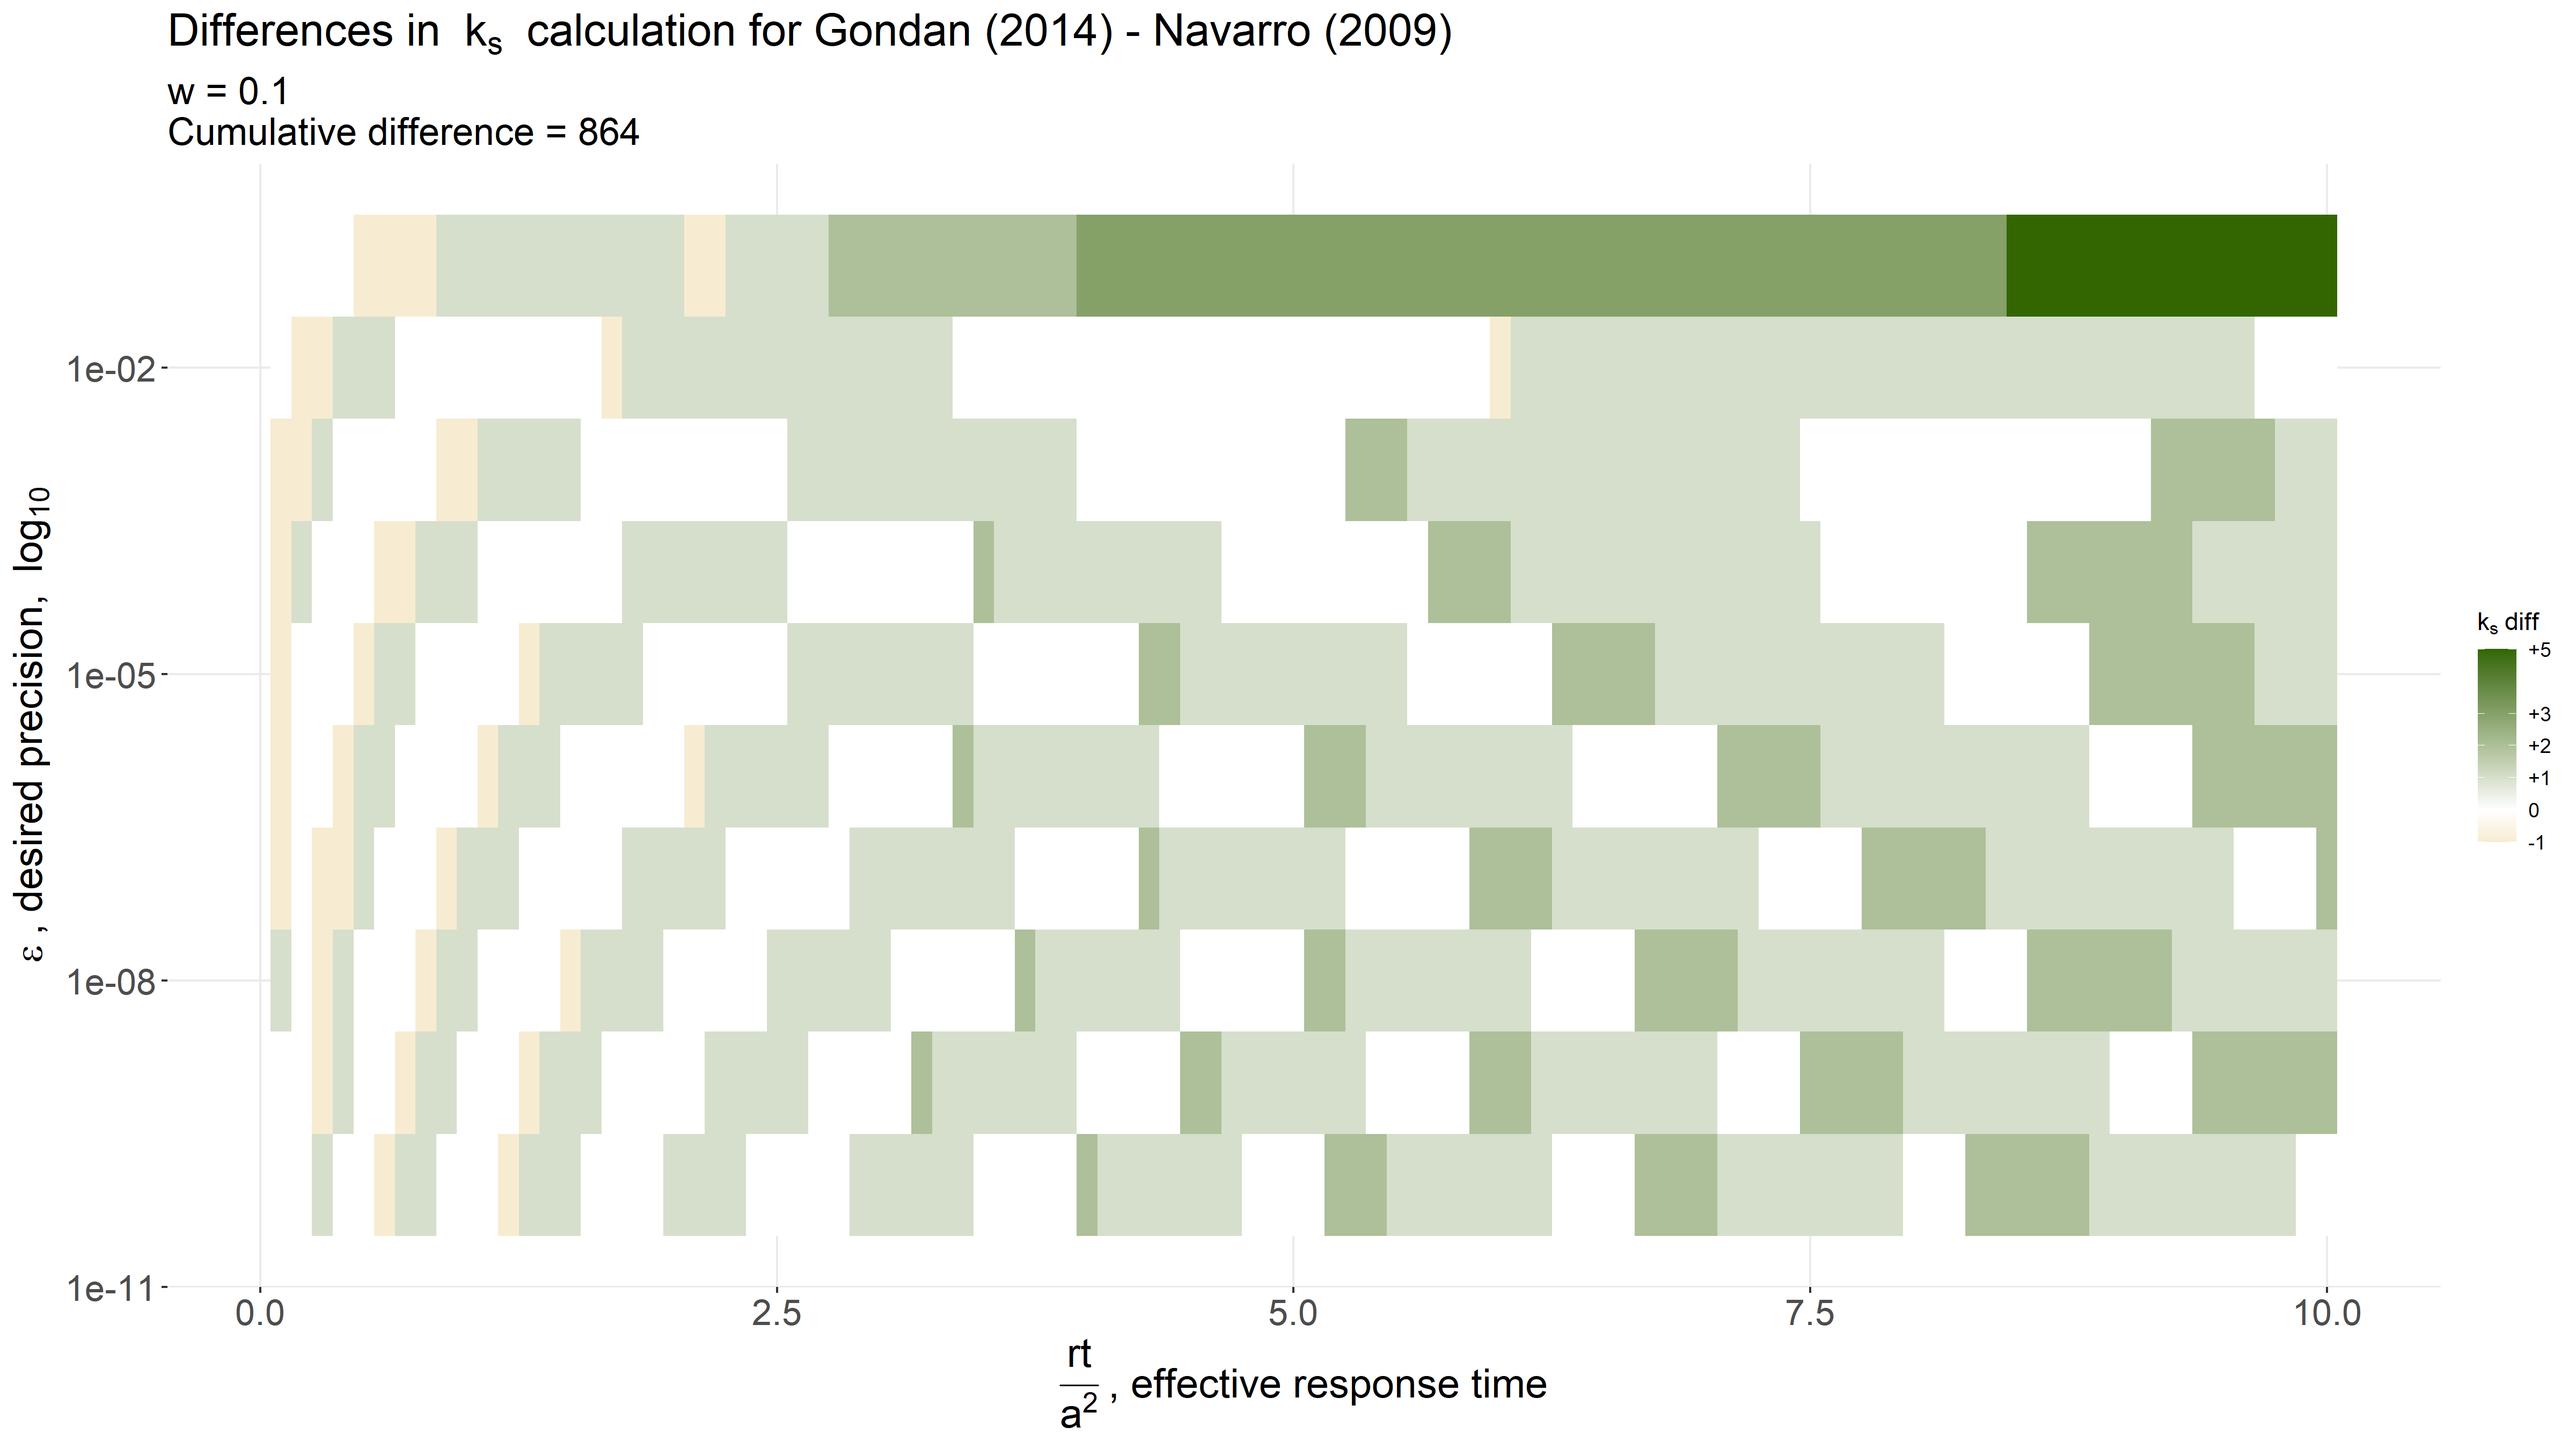
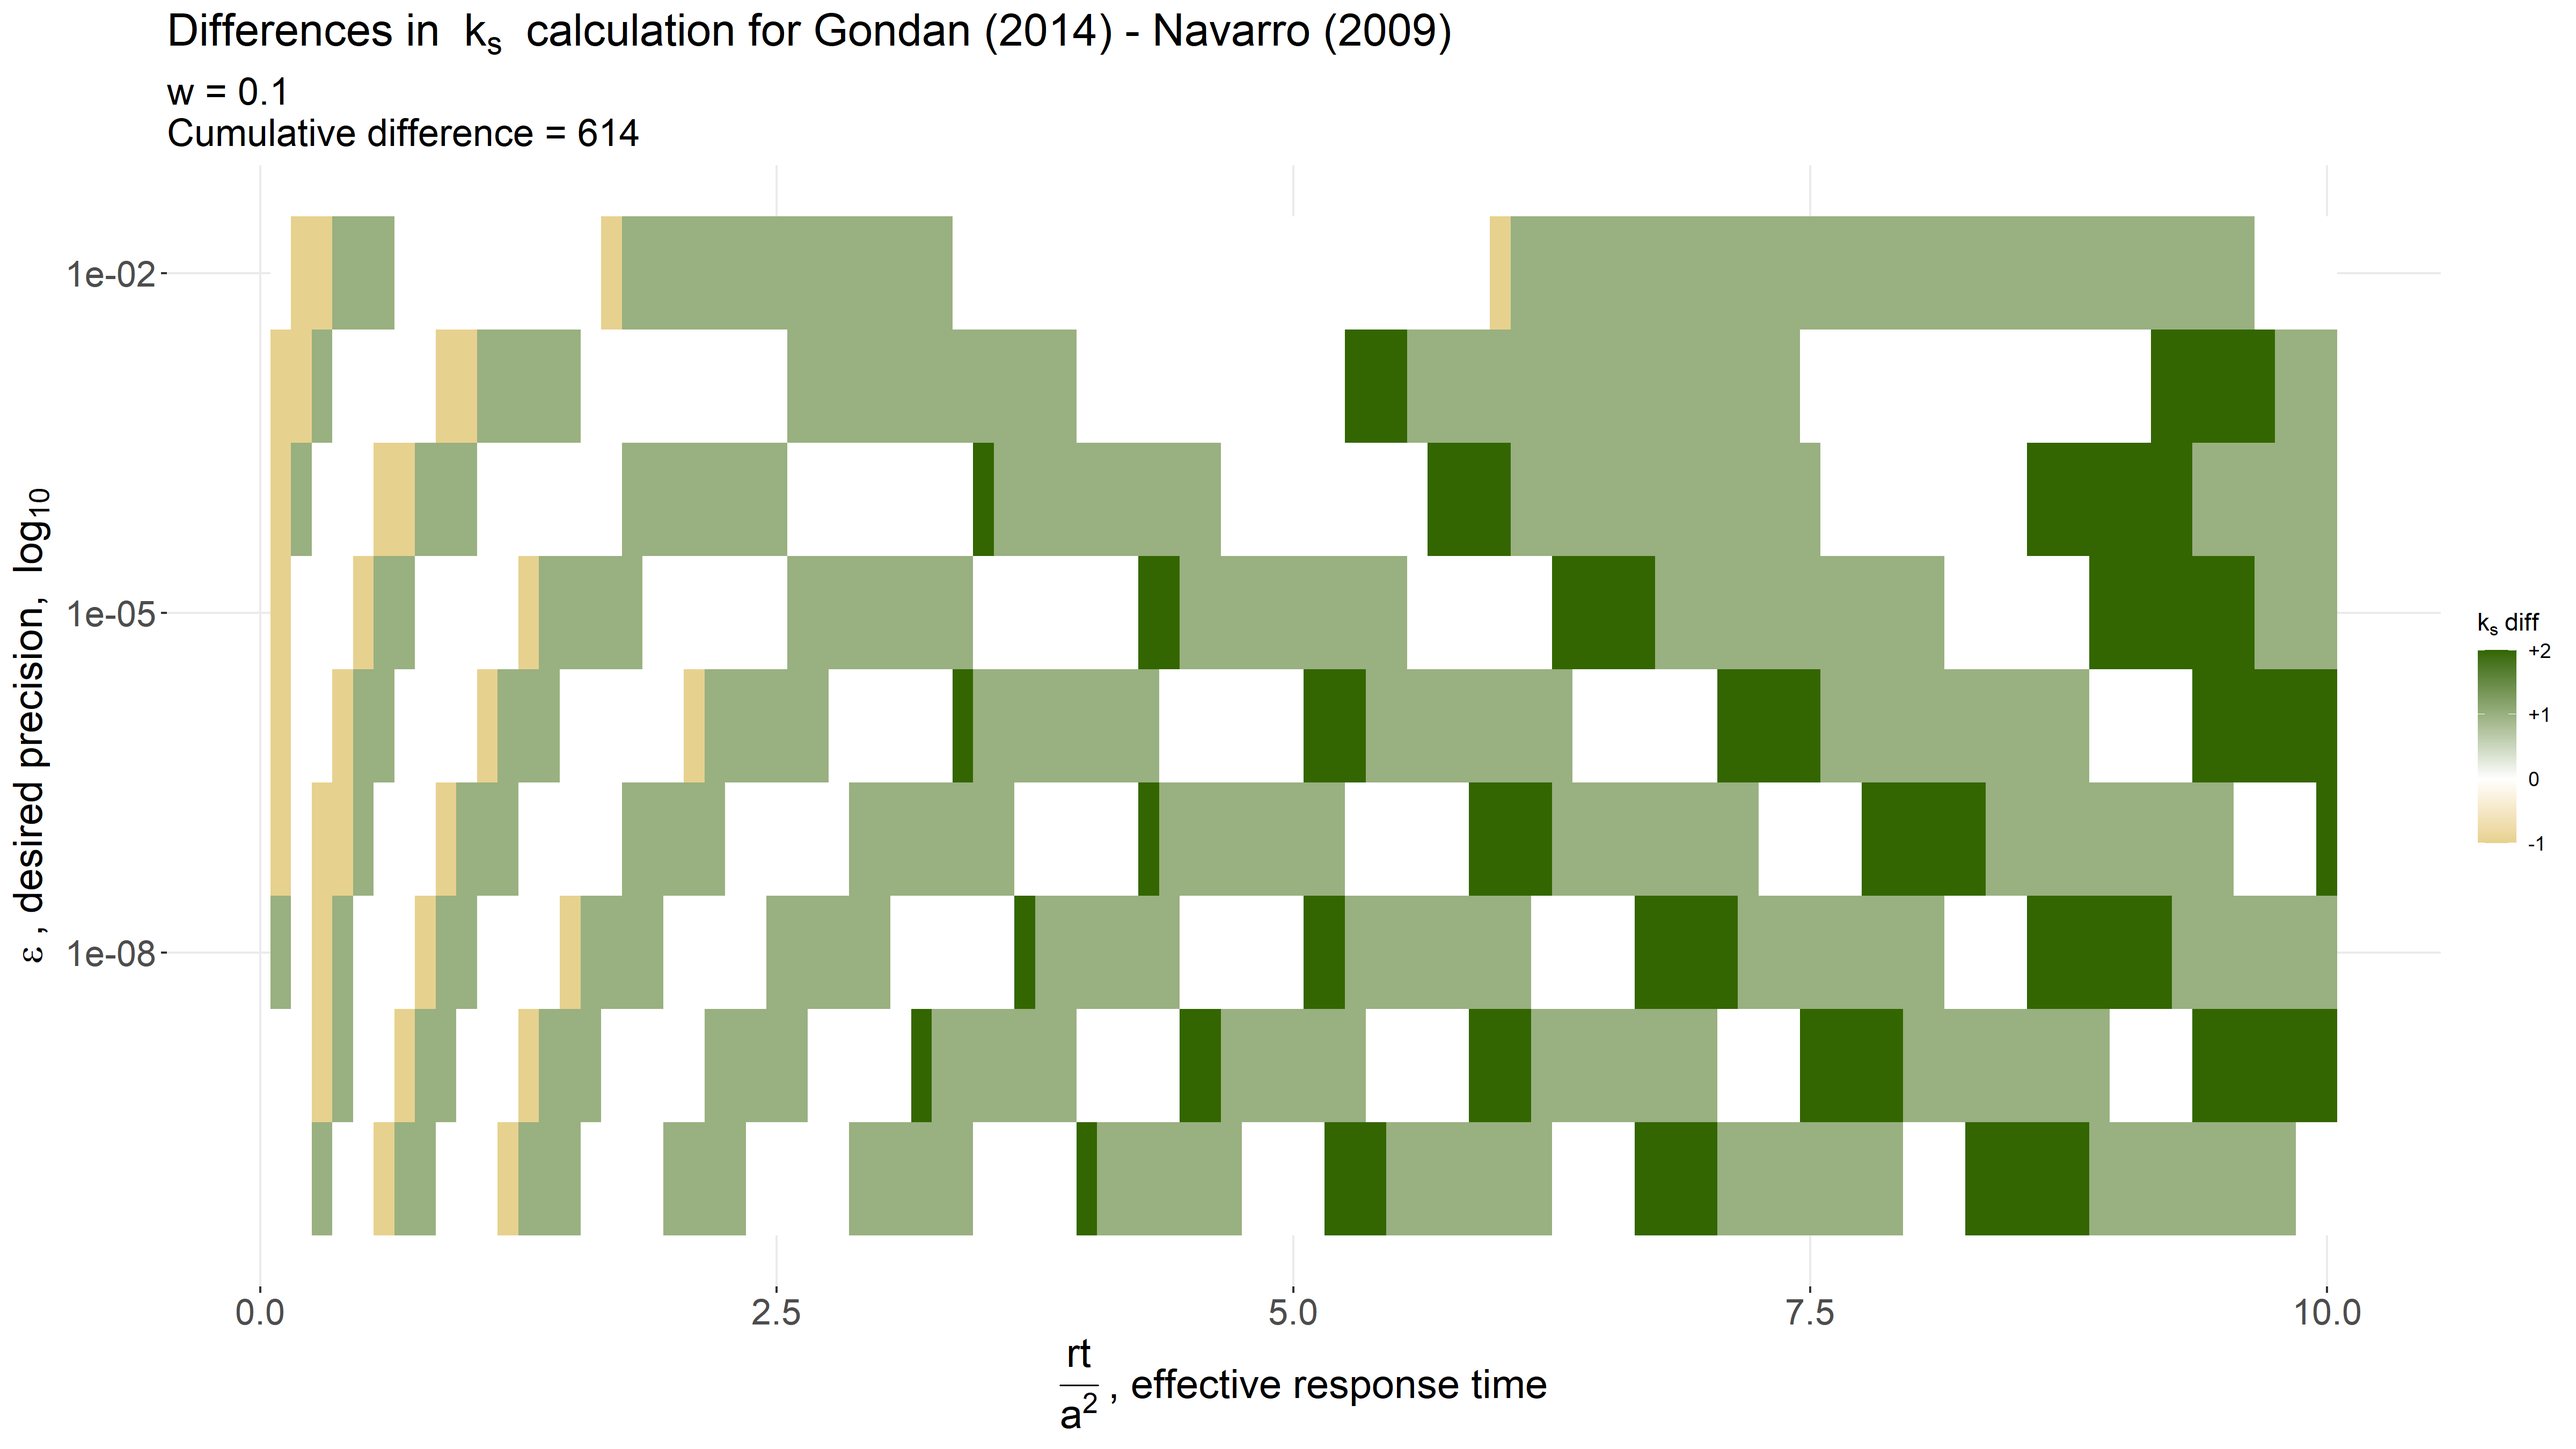
updated ks stuff in paper_analysis

diff --git a/paper_analysis/section_5_benchmark/ks/ks_vec.cpp b/paper_analysis/section_5_benchmark/ks/ks_vec.cpp
@@ -92,12 +92,10 @@ IntegerVector ks_SWSE_14(const NumericVector& t, const NumericVector& w,
   int nt = t.length();
   int nw = w.length();
   int ne = eps.length();
-  // int n = nt * nw * ne;
   IntegerVector out(nt * nw * ne);
 
-  double gamma, sum, term, tt, ww, eeps;
-  int minterms, j;
-  int oddj = 0;
+  double gamma, sum, term, tt, ww, eeps, rj;
+  int minterms, j, oddj;
 
   for (int ti = 0; ti < nt; ti++) {
     tt = t[ti];
@@ -109,26 +107,33 @@ IntegerVector ks_SWSE_14(const NumericVector& t, const NumericVector& w,
         minterms = sqrt(tt)/2 - ww/2; // min number of terms, truncates toward 0
         gamma = -1 / (2 * tt);
         sum = ww * exp(gamma * ww*ww); // initialize with j=0 term
-        term = (ww > 0 || minterms > 0) ? sum: 1.1 * eeps; // bug workaround
         j = 0;
         while (j < minterms) {
           j++;
-          sum -= (2*j - ww) * exp(gamma * (2*j - ww)*(2*j - ww));
-          term = (2*j + ww) * exp(gamma * (2*j + ww)*(2*j + ww));
-          sum += term;
+          rj = 2*j - ww;
+          sum -= rj * exp(gamma * rj*rj);
+          rj = 2*j + ww;
+          sum += rj * exp(gamma * rj*rj);
         }
+        j++;
+        rj = 2*j - ww;
+        term = rj * exp(gamma * rj*rj);
+        sum -= term;
+        oddj = 1;
         while (term > eeps) {
-          j++;
-          term = (2*j - ww) * exp(gamma * (2*j - ww)*(2*j - ww));
-          sum -= term;
+          rj = 2*j + ww;
+          term = rj * exp(gamma * rj*rj);
+          sum += term;
           if (term <= eeps) {
-            oddj = 1;
+            oddj = 0;
             break;
           }
-          term = (2*j + ww) * exp(gamma * (2*j + ww)*(2*j + ww));
-          sum += term;
+          j++;
+          rj = 2*j - ww;
+          term = rj * exp(gamma * rj*rj);
+          sum -= term;
         }
-        out[ti*nw*ne + wi*ne + ei] = 2*j + oddj;
+        out[ti*nw*ne + wi*ne + ei] = 2*j - oddj;
       }
     }
   }
@@ -142,7 +147,6 @@ IntegerVector ks_SWSE_17(const NumericVector& t, const NumericVector& w,
   int nt = t.length();
   int nw = w.length();
   int ne = eps.length();
-  // int n = nt * nw * ne;
   IntegerVector out(nt * nw * ne);
 
   double gamma, sum, term, rj, tt, ww, eeps;
@@ -158,14 +162,13 @@ IntegerVector ks_SWSE_17(const NumericVector& t, const NumericVector& w,
         minterms = sqrt(tt) - ww; // min number of terms, truncates toward 0
         gamma = -1 / (2 * tt);
         sum = ww * exp(gamma * ww*ww); // initialize with j=0 term
-        term = (ww > 0 || minterms > 0) ? sum: 1.1 * eeps; // bug workaround
         j = 0;
         if (minterms % 2) { // minterms is odd (and at least 1)
           j++;
           rj = j + 1 - ww;
           term = rj * exp(gamma * rj*rj);
           sum -= term;
-          while (j < minterms) { // j is currently 1
+          while (j < minterms) {
             j++;
             rj = j + ww;
             sum += rj * exp(gamma * rj*rj);
@@ -174,16 +177,20 @@ IntegerVector ks_SWSE_17(const NumericVector& t, const NumericVector& w,
             term = rj * exp(gamma * rj*rj);
             sum -= term;
           }
-          while (term > eeps) { // j is currently odd
-            j++;
-            rj = j + ww;
-            term = rj * exp(gamma * rj*rj);
-            sum += term;
-            if (term <= eeps) break;
+          j++;
+          rj = j + ww; // j is now even
+          term = rj * exp(gamma * rj*rj);
+          sum += term;
+          while (term > eeps) {
             j++;
             rj = j + 1 - ww;
             term = rj * exp(gamma * rj*rj);
             sum -= term;
+            if (term <= eeps) break;
+            j++;
+            rj = j + ww;
+            term = rj * exp(gamma * rj*rj);
+            sum += term;
           }
         } else { // minterms is even (and at least 0)
           while (j < minterms) { // j is currently 0
@@ -195,16 +202,20 @@ IntegerVector ks_SWSE_17(const NumericVector& t, const NumericVector& w,
             term = rj * exp(gamma * rj*rj);
             sum += term;
           }
-          while (term > eeps) { // j is currently even
-            j++;
-            rj = j + 1 - ww;
-            term = rj * exp(gamma * rj*rj);
-            sum -= term;
-            if (term <= eeps) break;
+          j++;
+          rj = j + 1 - ww; // j is now odd
+          term = rj * exp(gamma * rj*rj);
+          sum -= term;
+          while (term > eeps) {
             j++;
             rj = j + ww;
             term = rj * exp(gamma * rj*rj);
             sum += term;
+            if (term <= eeps) break;
+            j++;
+            rj = j + 1 - ww;
+            term = rj * exp(gamma * rj*rj);
+            sum -= term;
           }
         }
         out[ti*nw*ne + wi*ne + ei] = j;

diff --git a/src/cpp_dfddm.cpp b/src/cpp_dfddm.cpp
@@ -109,7 +109,7 @@ NumericVector cpp_dfddm(const NumericVector& rt,
     stop("dfddm error: model parameter 'a' is empty");
   } else {
     for (int i = 0; i < Na; i++) {
-      if (a[i] < 0) {
+      if (a[i] <= 0) {
         stop("dfddm error: model parameter 'a' < 0 at index %i.", i+1);
       }
     }
@@ -130,8 +130,8 @@ NumericVector cpp_dfddm(const NumericVector& rt,
     stop("dfddm error: model parameter 'w' is empty");
   } else {
     for (int i = 0; i < Nw; i++) {
-      if (w[i] < 0 || w[i] > 1) {
-        stop("dfddm error: model parameter 'w' < 0 or 'w' > 1 at index %i.", i+1);
+      if (w[i] <= 0 || w[i] >= 1) {
+        stop("dfddm error: model parameter 'w' <= 0 or 'w' >= 1 at index %i.", i+1);
       }
     }
   }
